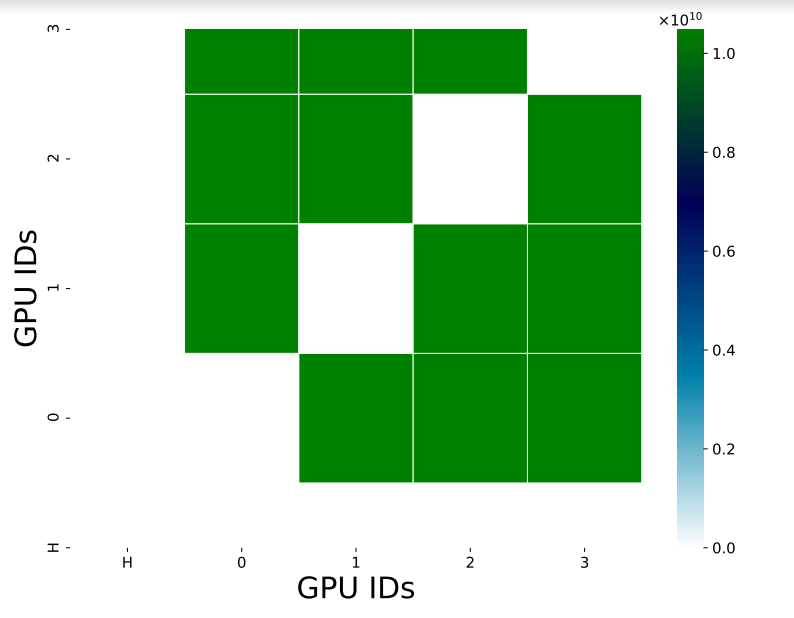
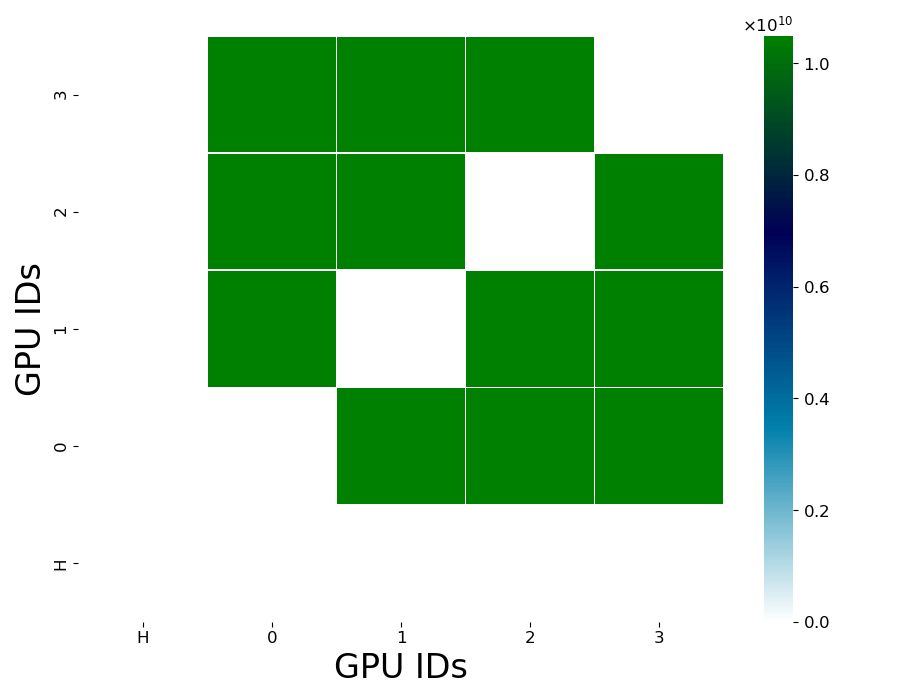
Example outputs

diff --git a/comscribe.py b/comscribe.py
@@ -442,7 +442,7 @@ def plot_comm_matrix(comm_matrix, num_devices, matrix_type, scale='linear'):
     plt.yticks(np.arange(0.5, num_devices + 1, 1), labels=labels)
     plt.tick_params(labelsize=12)
     plt.tight_layout()
-    plt.savefig('{}.pdf'.format(matrix_type))
+    plt.savefig('{}.png'.format(matrix_type))
 
 def plot_bar_chart(matrix, n_groups):
     plt.rcParams["figure.figsize"] = (8,6)
@@ -520,13 +520,13 @@ def main(argv):
             scale = arg
     
     # # Run app with GPU-Trace
-    gpu_trace_cmd = "nvprof --print-gpu-trace --csv --log-file gpu_trace.csv {}".format(application)
-    subprocess.run([gpu_trace_cmd], shell=True)
+    # gpu_trace_cmd = "nvprof --print-gpu-trace --csv --log-file gpu_trace.csv {}".format(application)
+    # subprocess.run([gpu_trace_cmd], shell=True)
     gpu_trace_file = "gpu_trace.csv"
 
     # # Run app with Metric Trace
-    metric_trace_cmd = "nvprof --print-gpu-trace --metrics nvlink_user_data_received,nvlink_user_data_transmitted,sysmem_read_bytes,sysmem_write_bytes --csv --log-file metric_trace.csv {}".format(application)
-    subprocess.run([metric_trace_cmd], shell=True)
+    # metric_trace_cmd = "nvprof --print-gpu-trace --metrics nvlink_user_data_received,nvlink_user_data_transmitted,sysmem_read_bytes,sysmem_write_bytes --csv --log-file metric_trace.csv {}".format(application)
+    # subprocess.run([metric_trace_cmd], shell=True)
 
     metric_trace_file = "metric_trace.csv"
     
